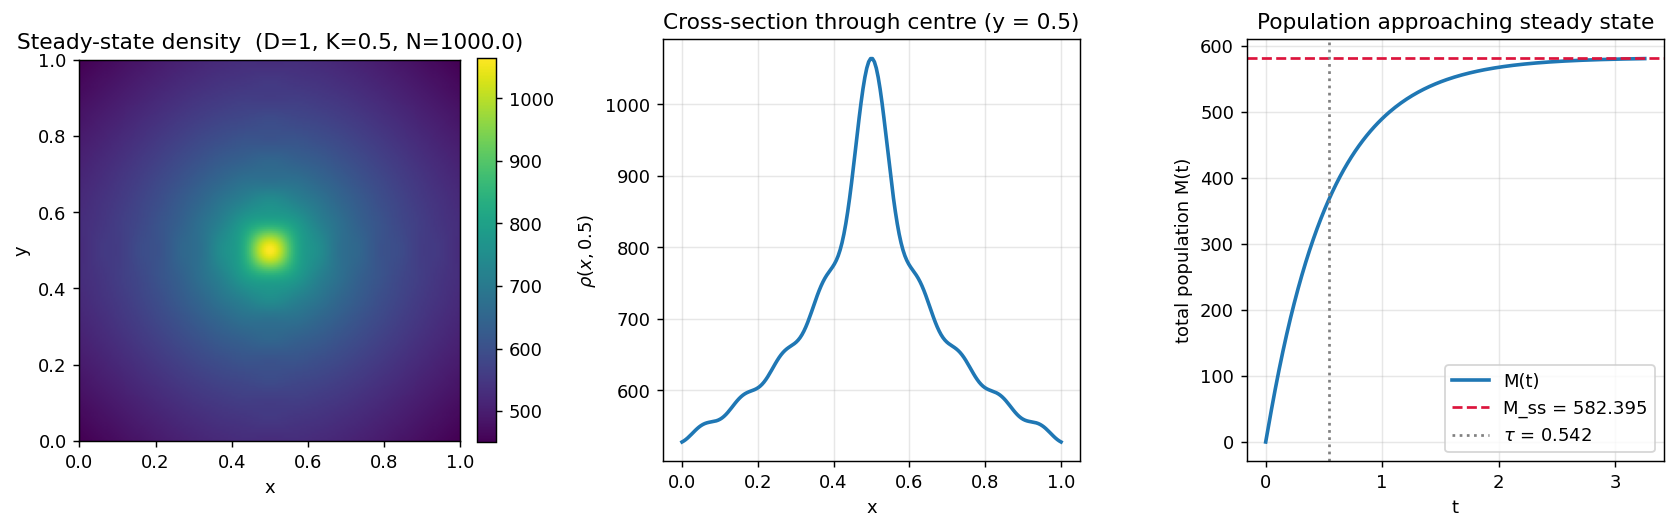
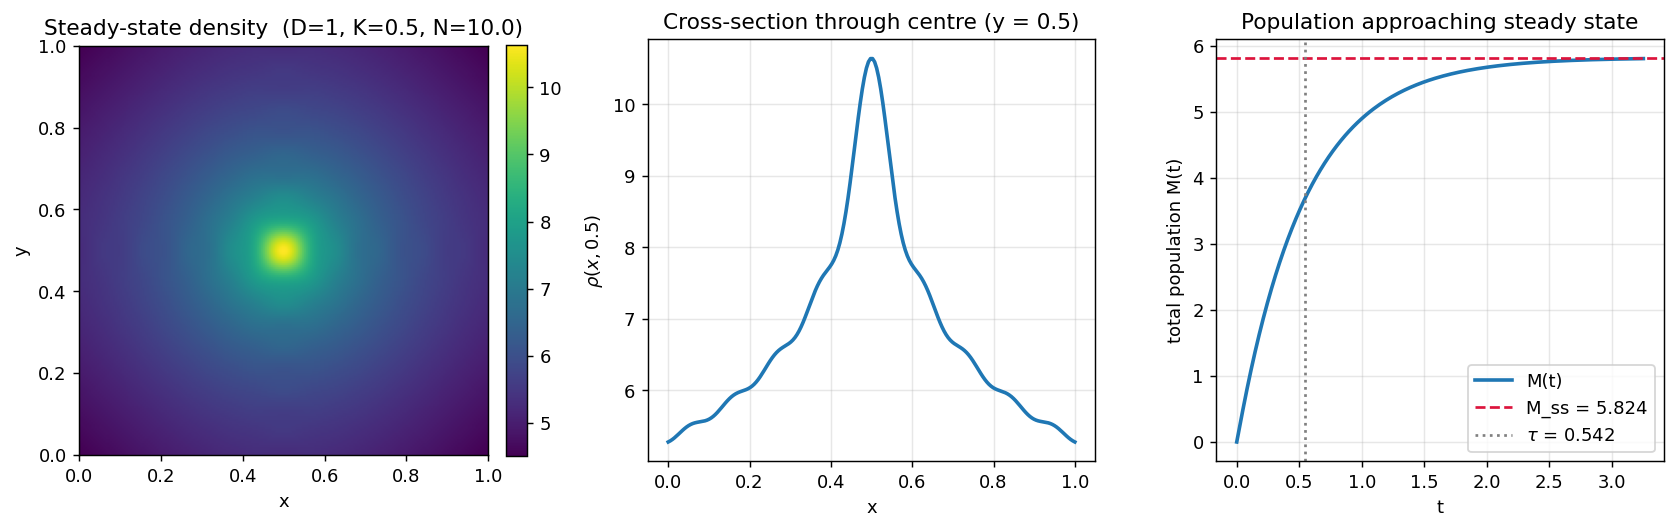
Stead state for an array of K values, K = 1 edge case

diff --git a/Single Particle in a Square (D, K)/diffusion.py b/Single Particle in a Square (D, K)/diffusion.py
@@ -2,31 +2,48 @@ from scipy.optimize import brentq
 import numpy as np
 import matplotlib.pyplot as plt
 
-# ------------------ CONSTANTS ------------------
+# ------------------ EIGENVALUE SOLVER (now a function of K) ------------------
+
+def solve_eigenvalues(K, D=1, n_eigen=20, mu_max=10000, n_scan=10000):
+    """
+    Find the first n_eigen positive roots mu of the Robin transcendental
+    equation for a given K (D fixed at D=1 by default, matching the rest
+    of the project's convention h = (1-K)/D).
+
+    Returns (eigenvalues, h).
+
+    NOTE: K should be strictly less than 1. At K=1, h=0, and mu=0 becomes
+    a legitimate root (the reflecting/no-flux zero mode), but this scan
+    starts at mu=0.001 and the transcendental function f(mu,0) doesn't
+    change sign near mu=0, so it will never be bracketed here anyway.
+    Physically, K=1 also has no steady state under constant injection
+    (a=0 mode has no decay), so a_ss diverges there regardless. Sweep
+    K up to but not including 1.
+    """
+    h = (1 - K) / D
+    mu_values = np.linspace(0.001, mu_max, n_scan)
+
+    def f(mu, h):
+        sq = np.sqrt(mu)
+        return 2*h*np.cos(sq) - np.sin(sq)*(sq - h**2/sq)
+
+    eigenvalues = []
+    for i in range(len(mu_values) - 1):
+        if f(mu_values[i], h) * f(mu_values[i+1], h) < 0:
+            root = brentq(f, mu_values[i], mu_values[i+1], args=(h,))
+            eigenvalues.append(root)
+            if len(eigenvalues) == n_eigen:
+                break
+
+    return eigenvalues, h
+
+
+# ------------------ CONSTANTS (module-level default, K=0.5) ------------------
 D = 1
-K = 0.5 # diffusion constant and reflective rate
-h = (1 - K)/D
-n_eigen = 20 # number of eigenvalues to find (capping it here)
+K = 0.5
+n_eigen = 20
+eigenvalues, h = solve_eigenvalues(K, D, n_eigen)
 
-mu_values = np.linspace(0.001, 10000, 10000)
-
-def f(mu, h):
-    sq = np.sqrt(mu)
-    return 2*h*np.cos(sq) - np.sin(sq)*(sq - h**2/sq)
-
-eigenvalues = [] # will hold the roots
-
-for i in range(len(mu_values) - 1):
-    if f(mu_values[i], h) * f(mu_values[i+1], h) < 0:
-        root = brentq(f, mu_values[i], mu_values[i+1], args=(h))
-        # brentq basically finds out a single root in a continuous function - like the one we have
-        # it looks for a sign change within brackets, a lower and upper - mu values i+1 and i in our case
-        # we check if the sign change occurs and then give it to brentq to handle finding the root, it also handles extra inputs like in our case h
-        eigenvalues.append(root)
-        if len(eigenvalues) == n_eigen:
-            break
-
-# print(eigenvalues)
 
 def X(x, mu, h):
     B = 1
@@ -48,31 +65,21 @@ def P(x, y, t, eigenvalues, h, D):
         for m in range(len(eigenvalues)):
             mu_n = eigenvalues[n]
             mu_m = eigenvalues[m]
-            # we need a set of eigenvalues
-            # a pair, they can be the same or different but the above for loops help us do that
 
             norm_n = np.trapezoid(X(x_vals, mu_n, h)**2, x_vals)
             norm_m = np.trapezoid(Y(y_vals, mu_m, h)**2, y_vals)
-            # Integration with trapezoid
             cnm = X(0.5, mu_n, h)*Y(0.5, mu_m, h)/(norm_m*norm_n)
-            # calculating cnm with the help of the IC: P(x,y,0)
 
             total += cnm * X(x, mu_n, h) * Y(y, mu_m, h) * np.e**(-D*(mu_m + mu_n)*t)
-            # Summing up all the values we get, in a way this is summation
-    
-    return total
 
-# print(P(0.5, 0.5, 0.01, eigenvalues, h, D)) - TEST
+    return total
 
 x_vals = np.linspace(0, 1, 100)
 y_vals = np.linspace(0, 1, 100)
 X_grid, Y_grid = np.meshgrid(x_vals, y_vals)
-# X_grid and Y_grid are both 2D coordinates
-# We use those to get a 2D array of P and then plot that
 
-# --------- TIMES (Changeable) ---------------
 times = [0.01, 0.05, 0.1, 0.5]
-t_vals = np.linspace(0.001, 5, 100)
+t_vals = np.linspace(0.0001, 5, 100)
 
 def S(t, eigenvalues, h, D):
     Z = P(X_grid, Y_grid, t, eigenvalues, h, D)
@@ -80,42 +87,30 @@ def S(t, eigenvalues, h, D):
     return result
 
 
-
 if __name__ == "__main__":
     fig, axes = plt.subplots(2, 2, figsize=(10, 8))
-    
+
     for i, t in enumerate(times):
         Z = P(X_grid, Y_grid, times[i], eigenvalues, h, D)
-        # print(S(times[i], eigenvalues, h, D))
         ax = axes[i//2, i%2]
         ax.imshow(Z, cmap='viridis', extent=[0,1,0,1], origin='lower')
         ax.set_title(f't = {t}')
-
-        # plt.imshow(Z, cmap='viridis', extent=[0,1,0,1])
-        # # imshow is used to display images in a plot, cmap manages color
-        # # extent manages the bounding box of the plot - range of x and y values in this case
-        # plt.colorbar() 
-        # plt.xlabel('x')
-        # plt.ylabel('y')
 
     plt.tight_layout()
     plt.show()
 
     S_vals = []
-
     for i, t in enumerate(t_vals):
         S_vals.append(S(t_vals[i], eigenvalues, h, D))
 
     J_vals = -np.gradient(S_vals, t_vals)
 
     plt.plot(t_vals, S_vals)
-    plt.xlabel('t')
-    plt.ylabel('S')
+    plt.xlabel('t'); plt.ylabel('S')
     plt.title('Survival Probability')
     plt.show()
 
     plt.plot(t_vals, J_vals)
-    plt.xlabel('t')
-    plt.ylabel('J')
+    plt.xlabel('t'); plt.ylabel('J')
     plt.title('Absorption Flux')
     plt.show()

diff --git a/Square boundary with a n particles per unit time source/k_sweep.py b/Square boundary with a n particles per unit time source/k_sweep.py
@@ -1,0 +1,83 @@
+import numpy as np
+import matplotlib.pyplot as plt
+import sys
+sys.path.append("Single Particle in a Square (D, K)")
+from diffusion import solve_eigenvalues, X, Y
+
+D = 1
+N = 10.0          
+# particles injected per unit time at centre
+n_eigen = 20
+Ngrid = 200
+
+K_values = [0.1, 0.3, 0.5, 0.7, 0.9, 0.99]
+# Edgecase check
+# K = 1 results in h = 0 and the eigenfunction breaks down
+# K must approach 0 but never equal 0, at K = 1 particles never exit and they are performing random walks in the perimeter of the boundary
+ 
+x_vals = np.linspace(0, 1, Ngrid)
+y_vals = np.linspace(0, 1, Ngrid)
+
+results = {}
+
+for Kval in K_values:
+    mu, h = solve_eigenvalues(Kval, D, n_eigen)
+    mu = np.array(mu)
+ 
+    Xmat = np.array([X(x_vals, m, h) for m in mu])
+    Ymat = np.array([Y(y_vals, m, h) for m in mu])
+    # precomputed table of eigenfunction values
+ 
+    normX = np.trapezoid(Xmat**2, x_vals, axis=1)
+    normY = np.trapezoid(Ymat**2, y_vals, axis=1)
+    # || X_n ||^2 that is normX
+ 
+    Xc = X(0.5, mu, h)
+    Yc = Y(0.5, mu, h)
+    cnm = np.outer(Xc, Yc) / np.outer(normX, normY)
+    lam = mu[:, None] + mu[None, :]
+    a_ss = (N * cnm) / (D * lam)
+ 
+    rho_ss = np.einsum('nm,ni,mj->ji', a_ss, Xmat, Ymat)
+    M_ss = np.trapezoid(np.trapezoid(rho_ss, x_vals, axis=1), y_vals)
+ 
+    edge_bottom = np.trapezoid(rho_ss[0, :],  x_vals)
+    edge_top    = np.trapezoid(rho_ss[-1, :], x_vals)
+    edge_left   = np.trapezoid(rho_ss[:, 0],  y_vals)
+    edge_right  = np.trapezoid(rho_ss[:, -1], y_vals)
+    absorb = D * h * (edge_bottom + edge_top + edge_left + edge_right)
+ 
+    results[Kval] = dict(rho_ss=rho_ss, M_ss=M_ss, absorb=absorb, h=h, mu=mu)
+ 
+    print(f"K={Kval:5.2f}  h={h:6.3f}  M_ss={M_ss:10.5f}  "
+          f"absorb={absorb:10.5f}  cons.err={abs(absorb-N)/N*100:6.3f}%")
+
+# ------------------ PLOTS ------------------
+fig, axes = plt.subplots(1, 3, figsize=(15, 4.3))
+ 
+# (a) M_ss vs K
+Ks = list(results.keys())
+Mss_vals = [results[k]['M_ss'] for k in Ks]
+axes[0].plot(Ks, Mss_vals, 'o-', color='crimson')
+axes[0].set_xlabel('K'); axes[0].set_ylabel('steady-state population $M_{ss}$')
+axes[0].set_title('Total population vs K')
+axes[0].grid(alpha=0.3)
+ 
+# (b) centre-line cross-section, all K overlaid
+mid = Ngrid // 2
+for Kval in Ks:
+    axes[1].plot(x_vals, results[Kval]['rho_ss'][mid, :], label=f'K={Kval}')
+axes[1].set_xlabel('x'); axes[1].set_ylabel(r'$\rho(x,0.5)$')
+axes[1].set_title('Steady-state cross-section vs K')
+axes[1].legend(fontsize=8); axes[1].grid(alpha=0.3)
+ 
+# (c) heatmaps for a couple of representative K
+im = axes[2].imshow(results[Ks[-1]]['rho_ss'], cmap='viridis',
+                     extent=[0, 1, 0, 1], origin='lower')
+axes[2].set_title(f'Density field, K={Ks[-1]} (most reflecting)')
+fig.colorbar(im, ax=axes[2], fraction=0.046, pad=0.04)
+ 
+plt.tight_layout()
+plt.savefig('source_K_sweep.png', dpi=130, bbox_inches='tight')
+print("saved source_K_sweep.png")
+plt.show()

diff --git a/test.py b/test.py
@@ -1,0 +1,8 @@
+import numpy as np
+import matplotlib.pyplot as plt
+import sys
+sys.path.append("Single Particle in a Square (D, K)")
+from diffusion import eigenvalues, X, Y, h, D, K, f
+
+print(f(0.001, 0))
+
